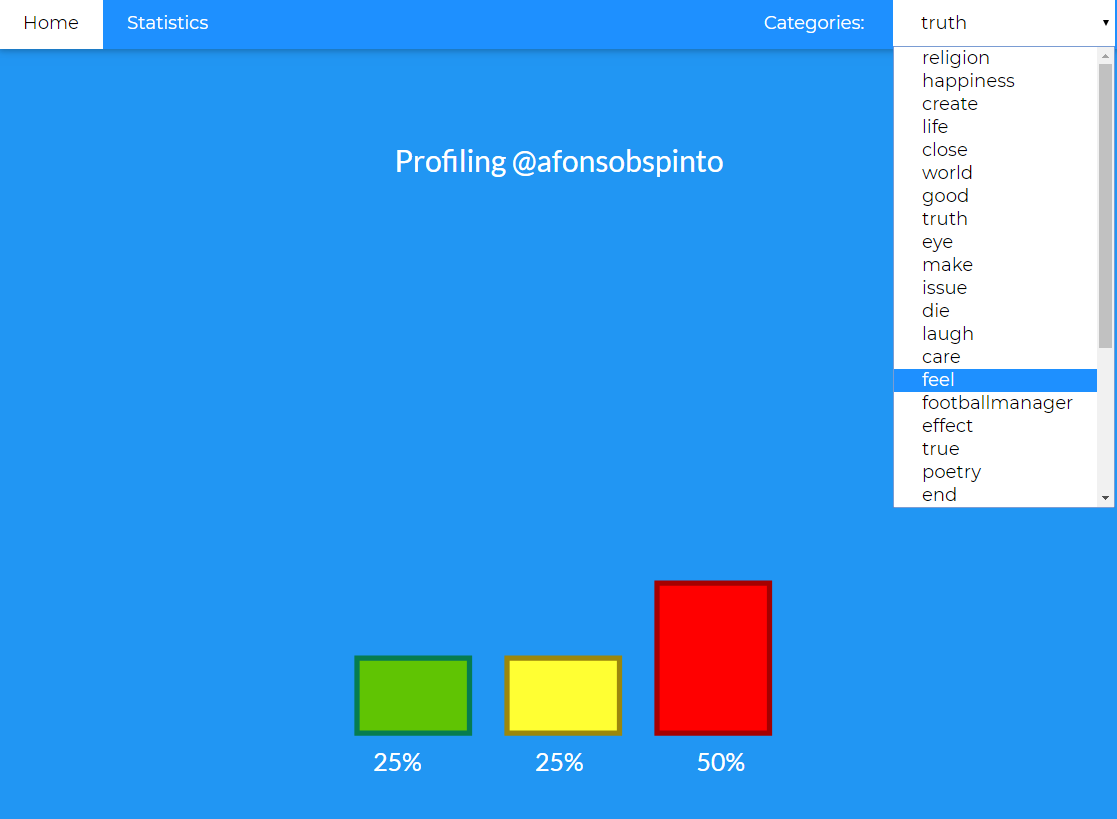
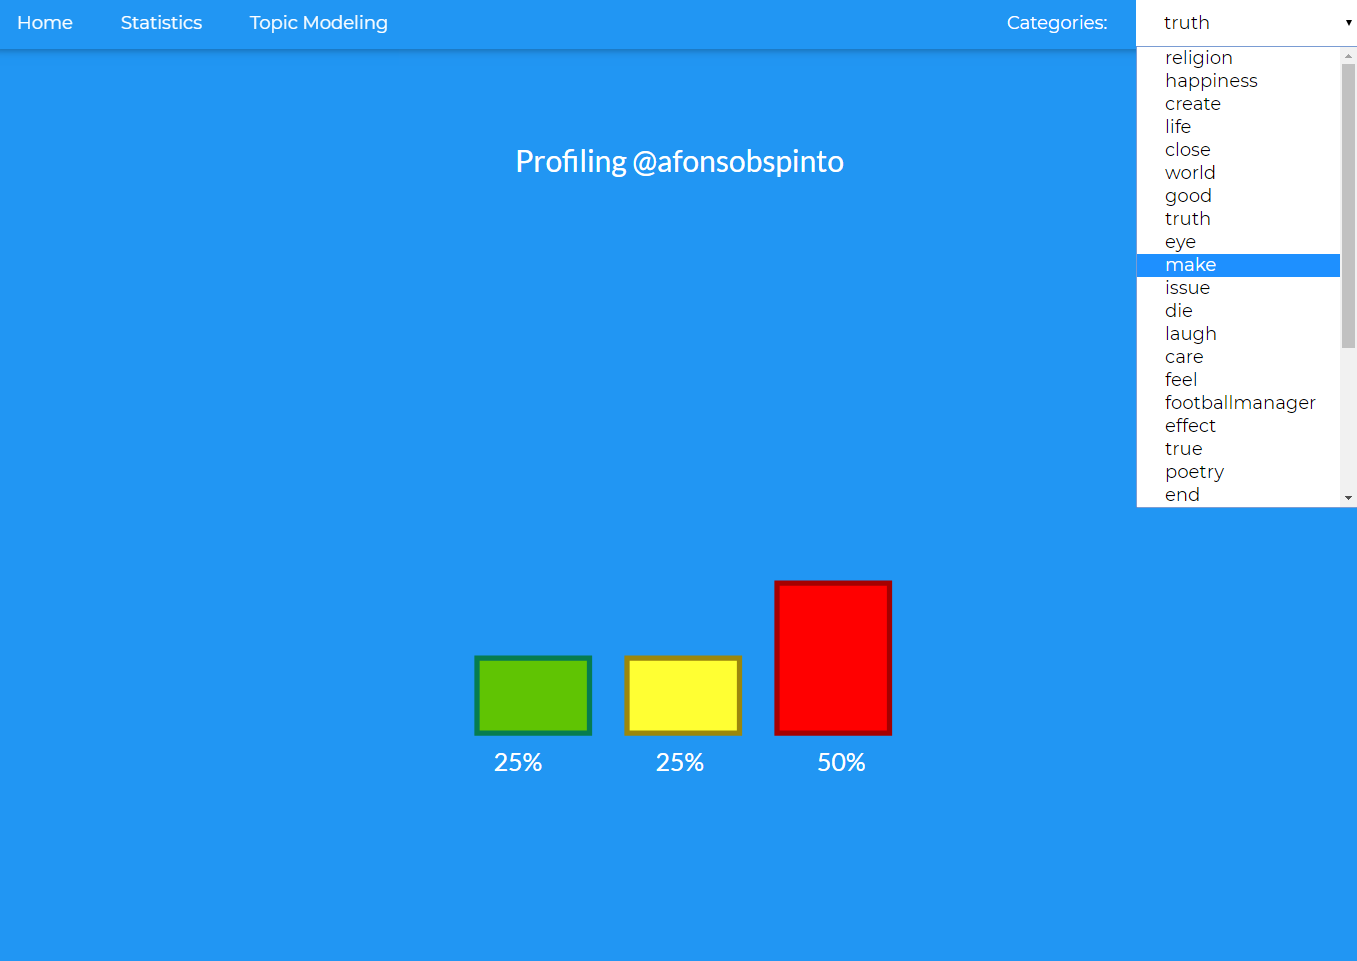
Update readme

Changed region(s): [[0.0, 0.0, 1.0, 0.641], [0.3044, 0.58, 0.7001, 0.9463], [0.3348, 0.1526, 0.6392, 0.2137]]

diff --git a/README.md b/README.md
@@ -21,6 +21,17 @@ pip3 install -r requirements.txt
 cd src
 python web_app.py
 `
+## Use the application
+To use the website application you need to do the following:
+- Type the username of the person you want to profile, specify the number of rows that you want to use, check the steps that you want the algorithm to take and press the Submit button
+![Main Page](https://github.ugent.be/efallahm/ICT/blob/master/docs/.Report_images/main_page.png?raw=true)
+- A number of subjects in the dropdown will appear and after you select one, you'll get the user's respective interest on the topic, in the form of percentages.
+![Profiled User page](https://github.ugent.be/efallahm/ICT/blob/master/docs/.Report_images/profiled3.png?raw=true)
+- There's a tab for the topic modeling as well, where you can see an interactive topic visualization
+![Topic Modeling Page](https://github.ugent.be/efallahm/ICT/blob/master/docs/.Report_images/modeling.png?raw=true)
+- You can also view the statistics about the profiled tweets and their authors by clicking on the Statistics button in the navigation bar.
+![Statistics Page](https://github.ugent.be/efallahm/ICT/blob/master/docs/.Report_images/statistics.png?raw=true)
+
 
 ### Shout-out to
 - [Flask](https://www.palletsprojects.com/p/flask/)
